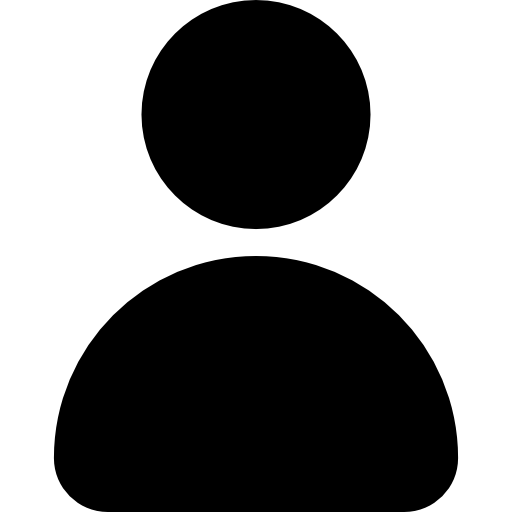
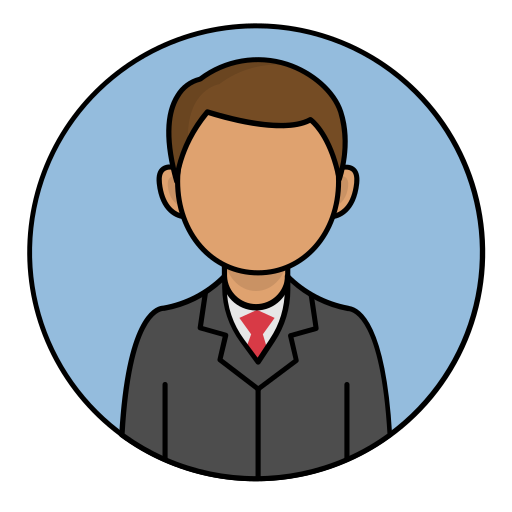
profile picture update, a few additional fixes

diff --git a/templates/profile.html b/templates/profile.html
@@ -58,7 +58,7 @@
 
                     <nav class="hidden md:flex space-x-6">
                         <a href="{{ url_for('post_login') }}"
-                            class="text-white font-semibold bg-indigo-600 px-4 py-2 rounded-full shadow-md">
+                            class="text-gray-600 hover:text-indigo-600 transition px-4 py-2 rounded-full">
                             <i class="fas fa-tachometer-alt mr-2"></i>Dashboard
                         </a>
                         <a href="{{ url_for('workitems_overview') }}"
@@ -114,7 +114,7 @@
                         Password
                     </a>
                     <a href="/logout"
-                        class="flex items-center px-4 py-2 text-gray-600 hover:bg-gray-100 hover:text-gray-900 rounded-lg font-medium">
+                        class="flex items-center px-4 py-2 text-red-600 hover:bg-red-100 hover:text-red-900 rounded-lg font-medium">
                         <i class="fas fa-arrow-right-from-bracket w-5 h-5 mr-3"></i>
                         Sign Out
                     </a>
@@ -130,7 +130,7 @@
                             <img src="{{ url_for('static',filename='images/'+ scope +'-Icon.png') }}" alt="User Avatar"
                                 class="h-10 w-10 rounded-full">
                             <div>
-                                    <input type="file" name="file"
+                                    <input id="file" type="file" name="file" accept=".jpg, .png"
                                         class="rounded-md bg-white px-3 py-2 text-sm font-semibold text-gray-900 shadow-sm ring-1 ring-inset ring-gray-300 hover:bg-gray-50">
                                     </input>
                             </div>

diff --git a/app.py b/app.py
@@ -8,6 +8,8 @@ from datetime import timedelta
 import bcrypt
 from flask_limiter import Limiter
 from flask_limiter.util import get_remote_address
+from pathlib import Path
+import re
 
 app = Flask(__name__)
 load_dotenv()
@@ -286,6 +288,7 @@ def update_profile():
     if 'username' not in session:
         return redirect(url_for("login"))
     if request.method == "POST":
+        scope = session['scope']
         username = session['username']
         fullname = request.form['fullName']
         email = request.form['email']
@@ -318,7 +321,12 @@ def update_profile():
 
         if request.files['file']:
             f = request.files['file']
-            f.save(f.filename)  
+            filename = f"{scope}-icon.png"
+            rel_path = os.path.join('static', 'images', filename)
+            abs_path = os.path.join(app.root_path, rel_path)
+            if os.path.exists(abs_path):
+                os.remove(abs_path)
+            f.save(abs_path)
 
         return redirect(url_for("profile"))                                   
 
